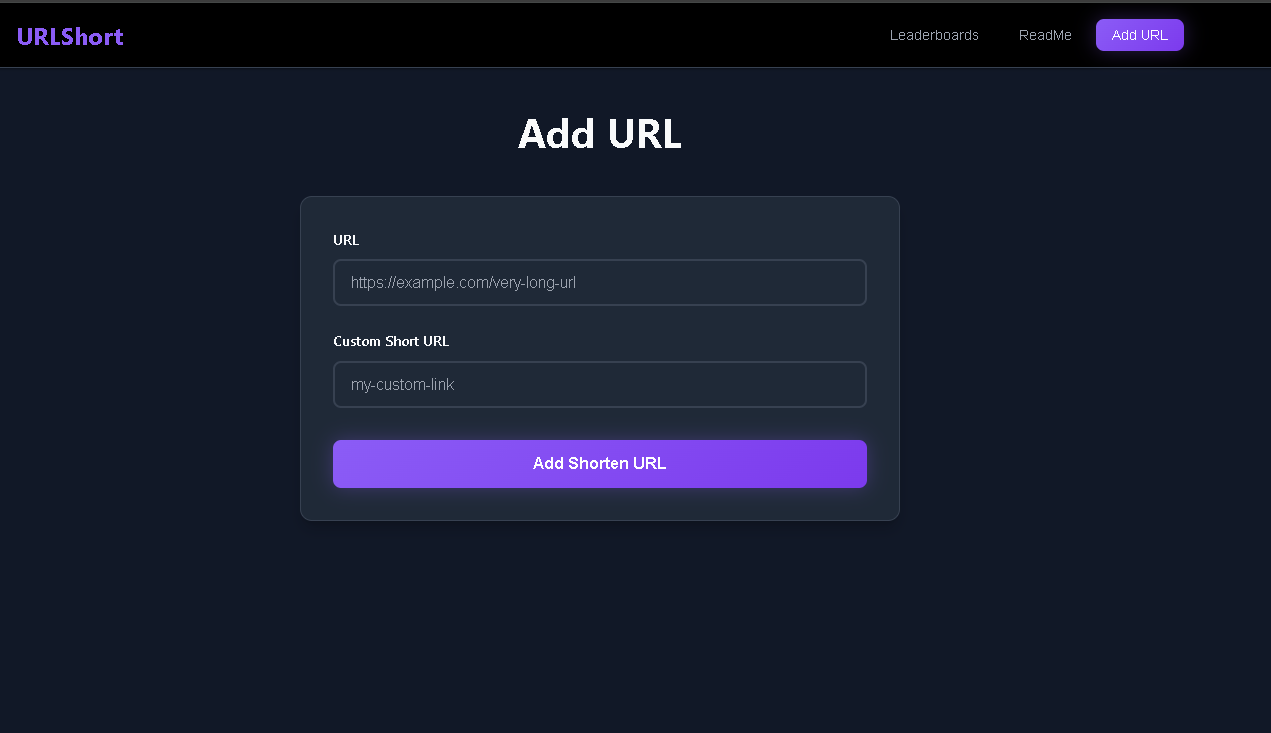
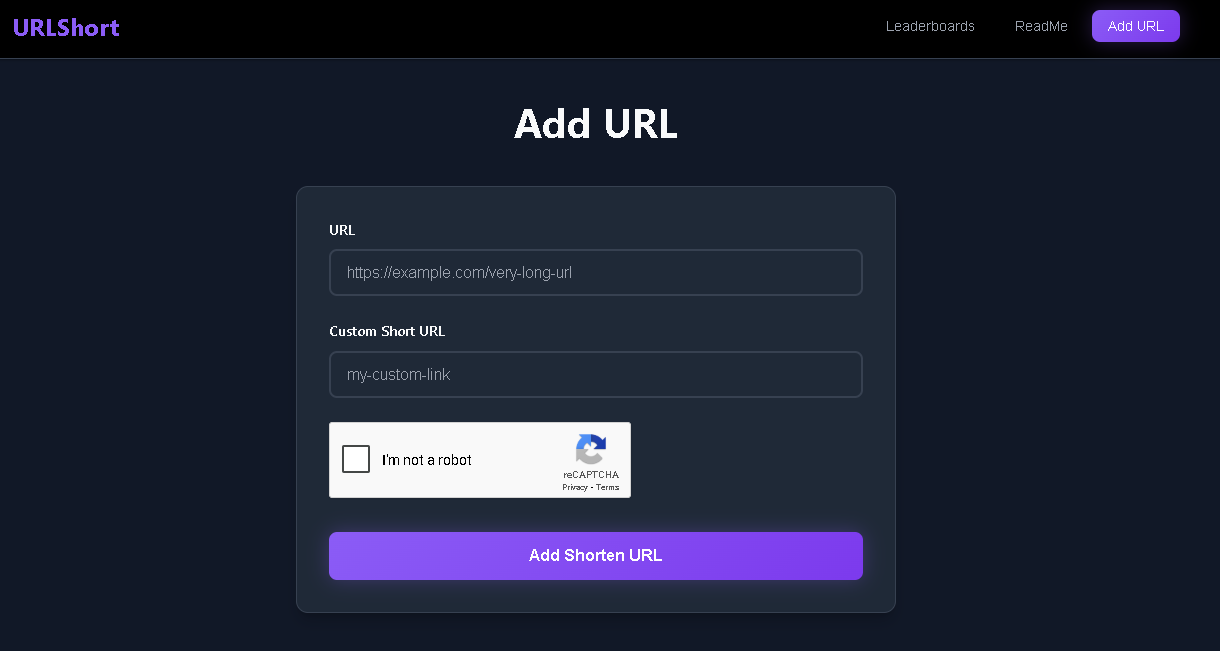
Add reCAPTCHA verification

diff --git a/Backend/index.html b/Backend/index.html
@@ -1,0 +1,48 @@
+<!DOCTYPE html>
+<html lang="en">
+<head>
+    <meta charset="UTF-8">
+    <meta name="viewport" content="width=device-width, initial-scale=1.0">
+    <title>reCAPTCHA POST Example</title>
+    <script src="https://www.google.com/recaptcha/api.js" async defer></script>
+</head>
+<body>
+    <h1>Verify reCAPTCHA</h1>
+
+    <form id="captchaForm">
+        <div class="g-recaptcha" data-sitekey="6LcQOIkrAAAAADp3np6ydBurp6JfjwWOHaIHlicE"></div>
+        <br>
+        <button type="submit">Submit</button>
+    </form>
+
+    <p id="result"></p>
+
+    <script>
+        document.getElementById('captchaForm').addEventListener('submit', async (e) => {
+            e.preventDefault(); // Stop form from reloading page
+
+            const token = grecaptcha.getResponse();
+            if (!token) {
+                alert('Please complete the reCAPTCHA.');
+                return;
+            }
+
+            try {
+                const response = await fetch('http://127.0.0.1:8000/recaptcha', {
+                    method: 'POST',
+                    headers: {
+                        'Content-Type': 'application/json'
+                    },
+                    body: JSON.stringify({ captcha: token })
+                });
+
+                const data = await response.text(); // or .json() if server responds with JSON
+                document.getElementById('result').innerText = `Server response: ${data}`;
+            } catch (err) {
+                console.error(err);
+                document.getElementById('result').innerText = 'Error contacting server.';
+            }
+        });
+    </script>
+</body>
+</html>

diff --git a/Backend/routes/shorten.js b/Backend/routes/shorten.js
@@ -2,10 +2,11 @@ import { Router } from "express";
 
 import { addUrl } from "../db/db-queries.js";
 import { validateUrl } from "../utils/validator.js";
+import recaptchaValidator from '../middleware/recaptcha-route.js'
 
 const router = Router();
 
-router.post('/shorten', async(req, res, next) => {
+router.post('/shorten', recaptchaValidator, async(req, res, next) => {
     try{
         const validateBody = await validateUrl(req.body);
         if(!validateBody) {
@@ -14,12 +15,12 @@ router.post('/shorten', async(req, res, next) => {
 
         const shortenedUrl = validateBody.shorten_url.trim().replace(/\s+/g, "-").toLowerCase();
         const ogUrl = validateBody.url.trim().replace(/\s+/g, "-").toLowerCase();
-        const addToDb = await addUrl(shortenedUrl, ogUrl);
 
+        const addToDb = await addUrl(shortenedUrl, ogUrl);
         
         res.send(addToDb.rows[0]);
     }catch(e){
-        console.error(e.message);
+        console.error("Shorten error", e.message);
         return res.status(400).json({ error: 'Something went wrong.' });
     }
 })

diff --git a/Frontend/script.js b/Frontend/script.js
@@ -176,7 +176,8 @@ class URLShortenerApp {
         try {
             const requestBody = {
                 url: formData.url,
-                shorten_url: formData.shorten
+                shorten_url: formData.shorten,
+                recaptchaResponse: grecaptcha.getResponse() // Get reCAPTCHA response
             };
 
             const response = await fetch('http://127.0.0.1:8000/api/shorten', {
@@ -262,7 +263,7 @@ class URLShortenerApp {
 
         errorContainer.innerHTML = `
             <div style="font-weight: 600; margin-bottom: 0.5rem;">❌ Error</div>
-            <div><p>Something went wrong. Make sure you have a valid URL and a unique Custom URL</p></div>
+            <div><p>Make sure you have a unique Custom URL or finished captcha</p></div>
         `;
 
         // Auto-hide after 5 seconds

diff --git a/Backend/middleware/recaptcha-route.js b/Backend/middleware/recaptcha-route.js
@@ -1,0 +1,25 @@
+import recaptchaCheck from "../utils/recaptcha-check.js"
+
+
+async function recaptchaRoute(req, res, next){
+    try{
+        const recaptchaResponse = req.body.recaptchaResponse;
+        const recaptchaResult = await recaptchaCheck(recaptchaResponse)
+
+        if(!recaptchaCheck) return res.status(400).json({ error: "Recaptcha response is required"})
+
+        if(!recaptchaResult.success) {
+            return res.status(400).json({ error: "Recaptcha verification failed" })
+        }
+
+        //if recaptcha.success is true or passed all the checks.
+        next()
+    }
+    catch(e){
+        console.log(e.message)
+        return res.status(400).json({ error: "Something went wrong." })
+    }
+}
+
+
+export default recaptchaRoute;

diff --git a/Frontend/index.html b/Frontend/index.html
@@ -4,6 +4,7 @@
     <meta charset="UTF-8">
     <meta name="viewport" content="width=device-width, initial-scale=1.0">
     <title>URL Shortener</title>
+    <script src="https://www.google.com/recaptcha/api.js" async defer></script>
     <link rel="stylesheet" href="styles.css">
 </head>
 <body>
@@ -105,7 +106,7 @@
                                     required
                                 >
                             </div>
-                            
+                            <div class="g-recaptcha" data-sitekey="6LcQOIkrAAAAADp3np6ydBurp6JfjwWOHaIHlicE"></div>
                             <button type="submit" class="submit-btn">
                                 Add Shorten URL
                             </button>

diff --git a/Backend/utils/recaptcha-check.js b/Backend/utils/recaptcha-check.js
@@ -1,0 +1,19 @@
+async function recaptchaCheck(recaptchaResponse) {
+    try{
+        if(!recaptchaCheck) return "Recaptcha response is required";
+
+        const recaptchaKey = process.env.RECAPTCHA_SECRET;
+        const url = `https://www.google.com/recaptcha/api/siteverify?secret=${recaptchaKey}&response=${recaptchaResponse}`;
+
+        const responose = await fetch(url, { method: 'POST' });
+        const data = await responose.json();
+
+        return data
+    }
+    catch(e){
+        return "Error: " + e.message;
+    }
+}
+
+
+export default recaptchaCheck;

diff --git a/Backend/utils/validator.js b/Backend/utils/validator.js
@@ -3,7 +3,8 @@ import Joi from "joi";
 
 const urlSchema = Joi.object({
     url: Joi.string().uri().required(),
-    shorten_url: Joi.string().required()
+    shorten_url: Joi.string().required(),
+    recaptchaResponse: Joi.string().required()
 })
 
 
